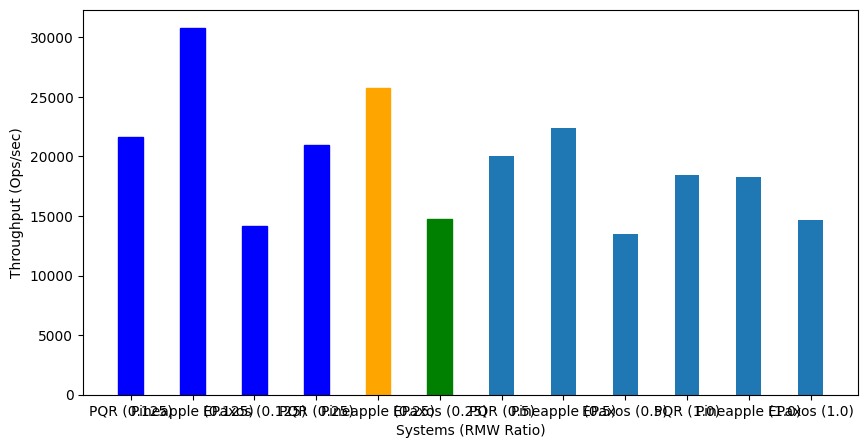
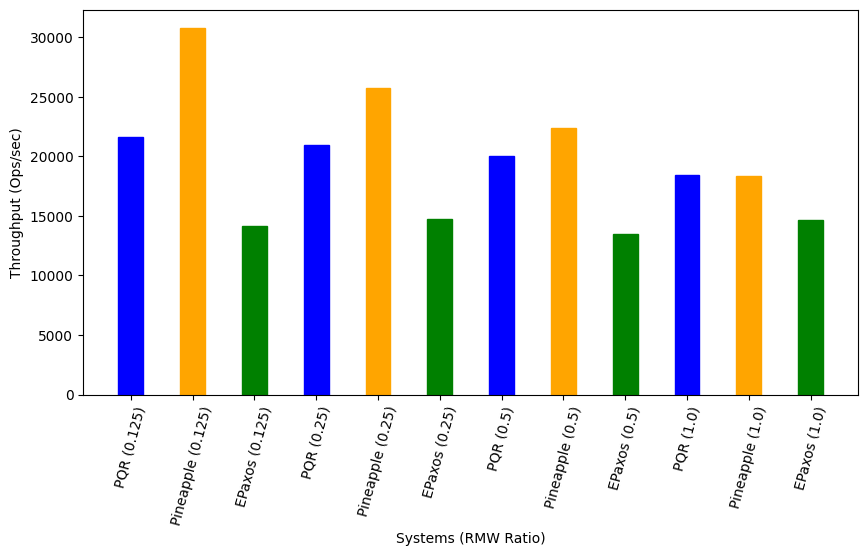
fix plot

diff --git a/tpt.py b/tpt.py
@@ -14,9 +14,11 @@ bars = plt.bar(protocol, tpt,
         width = 0.4)
 
 for x in range(4):
-    bars[x].set_color('blue')
-    bars[x+1].set_color('orange')
-    bars[x+2].set_color('green')
+    bars[3*x].set_color('blue')
+    bars[3*x+1].set_color('orange')
+    bars[3*x+2].set_color('green')
+
+plt.xticks(rotation=75)
 
  
 plt.xlabel("Systems (RMW Ratio)")
